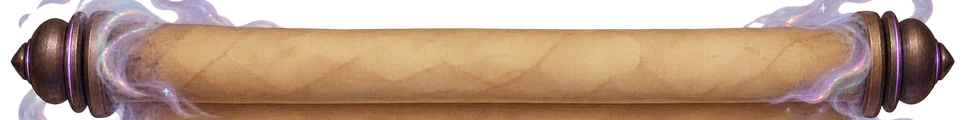
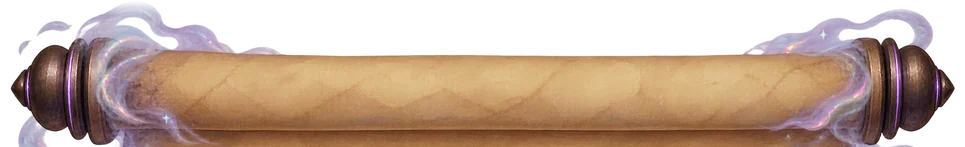
Fixed wisp cutoff

diff --git a/style.css b/style.css
@@ -158,6 +158,7 @@
 :is([data-scroll="evocation"], [data-scroll="illusion"], [data-scroll="abjuration"], [data-scroll="divination"], [data-scroll="enchantment"], [data-scroll="conjuration"], [data-scroll="necromancy"], [data-scroll="transmutation"]) main {
   --roll-h: 52px;
   --art-hole: none;   /* optional see-through hole cut where the sigil sits */
+  --roll-top-ext: 0;  --roll-bottom-ext: 0;   /* artwork past the rollers' outer edges, in image px */
   /* The sigil sits big and centred behind the board (game.js sets --sigil-top
      to where the guess rows start) and is wiped in from the top as guesses are
      made. It's lifted so its top already shows behind the summary before the
@@ -209,11 +210,12 @@
 }
 :is([data-scroll="evocation"], [data-scroll="illusion"], [data-scroll="abjuration"], [data-scroll="divination"], [data-scroll="enchantment"], [data-scroll="conjuration"], [data-scroll="necromancy"], [data-scroll="transmutation"]) main::before {
   border-width: 0 var(--roll-top-w);
-  border-image: var(--art-roll-top) 0 var(--roll-top-slice) fill / 0 var(--roll-top-w) / 0 stretch;
+  /* roller images are 120px tall at --roll-h, plus their glow drawn outside the box */
+  border-image: var(--art-roll-top) 0 var(--roll-top-slice) fill / 0 var(--roll-top-w) / calc(var(--roll-h) * var(--roll-top-ext) / 120) 0 0 stretch;
 }
 :is([data-scroll="evocation"], [data-scroll="illusion"], [data-scroll="abjuration"], [data-scroll="divination"], [data-scroll="enchantment"], [data-scroll="conjuration"], [data-scroll="necromancy"], [data-scroll="transmutation"]) main::after {
   border-width: 0 var(--roll-bottom-w);
-  border-image: var(--art-roll-bottom) 0 var(--roll-bottom-slice) fill / 0 var(--roll-bottom-w) / 0 stretch;
+  border-image: var(--art-roll-bottom) 0 var(--roll-bottom-slice) fill / 0 var(--roll-bottom-w) / 0 0 calc(var(--roll-h) * var(--roll-bottom-ext) / 120) stretch;
 }
 
 /* Abjuration: silver end caps and glowing blue ward-runes down the edges */
@@ -229,6 +231,7 @@
   --art-middle: url("img/divination/middle.webp");      --middle-slice: 130;      --edge-w: 65px;
   --art-roll-top: url("img/divination/roll-top.webp");       --roll-top-slice: 230;    --roll-top-w: 100px;
   --art-roll-bottom: url("img/divination/roll-bottom.webp"); --roll-bottom-slice: 240; --roll-bottom-w: 104px;
+  --roll-top-ext: 47; --roll-bottom-ext: 45;   /* glow past the rollers, from tools/scroll_assets.py */
   --art-sigil: url("img/divination/sigil.webp");
 }
 
@@ -237,6 +240,7 @@
   --art-middle: url("img/enchantment/middle.webp");      --middle-slice: 135;      --edge-w: 68px;
   --art-roll-top: url("img/enchantment/roll-top.webp");       --roll-top-slice: 180;    --roll-top-w: 78px;
   --art-roll-bottom: url("img/enchantment/roll-bottom.webp"); --roll-bottom-slice: 182; --roll-bottom-w: 79px;
+  --roll-top-ext: 34; --roll-bottom-ext: 44;   /* glow past the rollers, from tools/scroll_assets.py */
   --art-sigil: url("img/enchantment/sigil.webp");
 }
 
@@ -245,6 +249,7 @@
   --art-middle: url("img/conjuration/middle.webp");      --middle-slice: 148;      --edge-w: 74px;
   --art-roll-top: url("img/conjuration/roll-top.webp");       --roll-top-slice: 205;    --roll-top-w: 89px;
   --art-roll-bottom: url("img/conjuration/roll-bottom.webp"); --roll-bottom-slice: 220; --roll-bottom-w: 95px;
+  --roll-top-ext: 39; --roll-bottom-ext: 75;   /* glow past the rollers, from tools/scroll_assets.py */
   --art-sigil: url("img/conjuration/sigil.webp");
 }
 
@@ -253,6 +258,7 @@
   --art-middle: url("img/necromancy/middle.webp");      --middle-slice: 100;      --edge-w: 50px;
   --art-roll-top: url("img/necromancy/roll-top.webp");       --roll-top-slice: 175;    --roll-top-w: 76px;
   --art-roll-bottom: url("img/necromancy/roll-bottom.webp"); --roll-bottom-slice: 185; --roll-bottom-w: 80px;
+  --roll-top-ext: 29; --roll-bottom-ext: 51;   /* glow past the rollers, from tools/scroll_assets.py */
   --art-sigil: url("img/necromancy/sigil.webp");
 }
 
@@ -261,6 +267,7 @@
   --art-middle: url("img/transmutation/middle.webp");      --middle-slice: 132;      --edge-w: 66px;
   --art-roll-top: url("img/transmutation/roll-top.webp");       --roll-top-slice: 152;    --roll-top-w: 66px;
   --art-roll-bottom: url("img/transmutation/roll-bottom.webp"); --roll-bottom-slice: 162; --roll-bottom-w: 70px;
+  --roll-top-ext: 9; --roll-bottom-ext: 40;   /* glow past the rollers, from tools/scroll_assets.py */
   --art-sigil: url("img/transmutation/sigil.webp");
 }
 
@@ -278,6 +285,7 @@
   --art-middle: url("img/illusion/middle.webp");      --middle-slice: 180;      --edge-w: 90px;
   --art-roll-top: url("img/illusion/roll-top.webp");       --roll-top-slice: 160;    --roll-top-w: 69px;
   --art-roll-bottom: url("img/illusion/roll-bottom.webp"); --roll-bottom-slice: 151; --roll-bottom-w: 65px;
+  --roll-top-ext: 27; --roll-bottom-ext: 32;   /* glow past the rollers, from tools/scroll_assets.py */
   --art-sigil: url("img/illusion/sigil.webp");
 }
 @media (max-width: 700px) {

diff --git a/tools/scroll_assets.py b/tools/scroll_assets.py
@@ -12,6 +12,11 @@ Reads img/raw/<school>/ and writes img/<school>/:
 The crop boxes below were measured from the raw images; if you replace a raw
 image, re-measure them (the alpha channel shows where the artwork is). The
 border-image slice numbers in style.css are in output pixels: raw slice x scale.
+
+Roller crop boxes frame just the roller. Any glow or smoke beyond its outer
+edge (above the top roller, below the bottom one) is kept as well, faded out
+towards the image edge, and the "ext" this prints goes into style.css as
+--roll-top-ext / --roll-bottom-ext so it's drawn outside the roller's box.
 """
 from pathlib import Path
 import numpy as np
@@ -125,6 +130,31 @@ def hole_mask(im, seed):
     return Image.merge("RGBA", [Image.new("L", im.size, 0)] * 3 + [Image.fromarray(alpha)])
 
 
+def extend_roller(im, box, outward):
+    """Grow a roller crop outward ("up" or "down") to where the artwork ends, fading
+    the outer part of the extra strip so it never ends in a hard line.
+    Returns the crop and how many raw rows were added."""
+    x0, y0, x1, y1 = box
+    rows = np.where((np.asarray(im)[..., 3] > 8).any(axis=1))[0]
+    if outward == "up":
+        y0, ext = min(y0, rows.min()), y0 - min(y0, rows.min())
+    else:
+        y1, ext = max(y1, rows.max() + 1), max(y1, rows.max() + 1) - y1
+    out = im.crop((x0, y0, x1, y1))
+    if ext:
+        a = np.asarray(out).copy()
+        ramp = np.ones(a.shape[0], np.float32)
+        fade = max(1, round(ext * 0.6))
+        edge = np.linspace(0, 1, fade, dtype=np.float32)
+        if outward == "up":
+            ramp[:fade] = edge
+        else:
+            ramp[-fade:] = edge[::-1]
+        a[..., 3] = (a[..., 3] * ramp[:, None]).round().astype(np.uint8)
+        out = Image.fromarray(a, "RGBA")
+    return out, ext
+
+
 def main():
     for school, cfg in SCHOOLS.items():
         src, dst = ROOT / "img" / "raw" / school, ROOT / "img" / school
@@ -132,19 +162,25 @@ def main():
         for name in ("roll-top", "roll-bottom", "middle", "sigil"):
             file, box = cfg[name]
             im = Image.open(src / file).convert("RGBA")
-            if box:
+            ext = 0
+            if name in ("roll-top", "roll-bottom"):
+                core_h = box[3] - box[1]
+                im, ext = extend_roller(im, box, "up" if name == "roll-top" else "down")
+            elif box:
                 im = im.crop(box)
             if name == "middle":
                 im = seamless_vertical(im, cfg["middle_blend"])
             extra = {"sigil-hole": hole_mask(im, cfg["sigil_hole_seed"])} if name == "sigil" and "sigil_hole_seed" in cfg else {}
             axis, px = cfg["sizes"][name]
-            scale = px / (im.height if axis == "h" else im.width)
+            # rollers are scaled by the roller itself, so the slices don't move when the extension changes
+            scale = px / (core_h if ext else im.height if axis == "h" else im.width)
             size = (round(im.width * scale), round(im.height * scale))
             for out_name, out_im in {name: im, **extra}.items():
                 out_im = out_im.resize(size, Image.LANCZOS)
                 out = dst / f"{out_name}.webp"
                 out_im.save(out, "WEBP", quality=86, method=6)
-                print(f"{out.relative_to(ROOT)}  {size[0]}x{size[1]}  scale {scale:.3f}  {out.stat().st_size // 1024} KB")
+                note = f"  ext {round(ext * scale)}" if ext else ""
+                print(f"{out.relative_to(ROOT)}  {size[0]}x{size[1]}  scale {scale:.3f}  {out.stat().st_size // 1024} KB{note}")
 
 
 if __name__ == "__main__":
